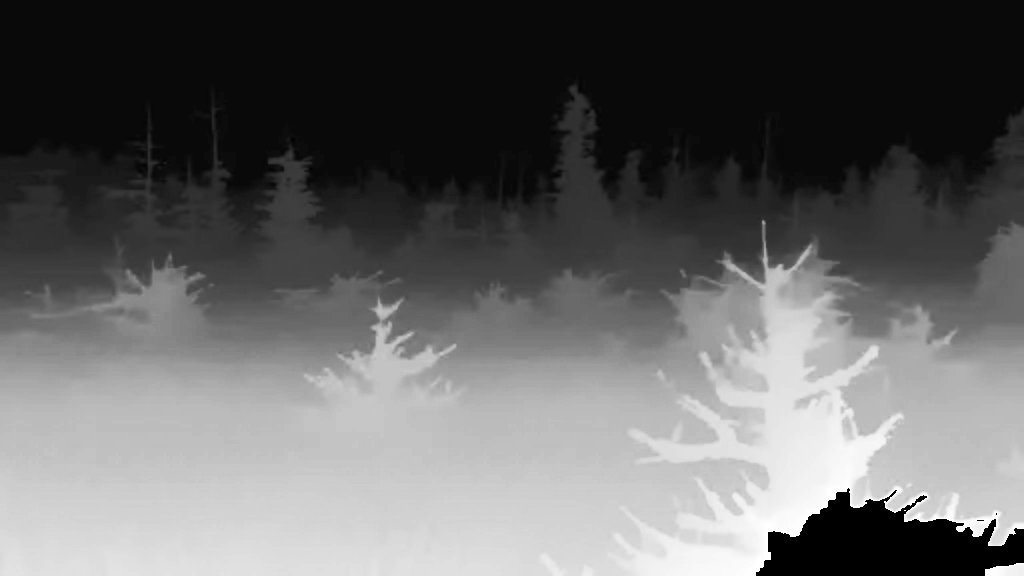
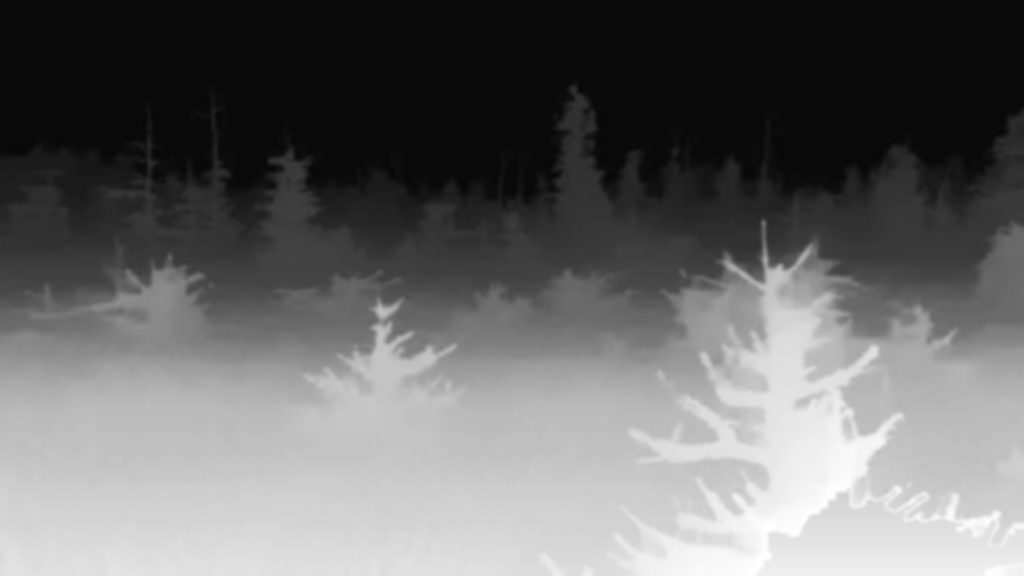
fix(hero): correction du bug de carte de profondeur en bas a droite et lissage de parallaxe

Changed region(s): [[0.7188, 0.8438, 1.0, 1.0]]

diff --git a/assets/js/hero-depth-3d.js b/assets/js/hero-depth-3d.js
@@ -100,44 +100,20 @@
         vec2 coverUv = getCoverUv(vUv, uResolution, uImageResolution);
         coverUv = clamp(coverUv, 0.001, 0.999);
 
-        // Calibrated stereoscopic parallax vector (solid physical camera shift)
-        vec2 parallax = -uMouse * vec2(0.045, 0.032);
+        // Sample depth map (1.0 = foreground trees & moss, 0.0 = distant sunrise sky)
+        float depth = texture2D(uDepth, coverUv).r;
 
-        // Parallax Occlusion Raymarching (8 depth slices for crisp solid geometry)
-        const int NUM_STEPS = 8;
-        vec2 stepOffset = parallax / float(NUM_STEPS);
-        vec2 currentUv = coverUv;
-        float currentDepthValue = texture2D(uDepth, currentUv).r;
-        float layerDepth = 0.0;
-        float stepSize = 1.0 / float(NUM_STEPS);
+        // Centered focal depth: 0.35 (horizon stays stable, foreground separates smoothly in 3D)
+        float depthFactor = depth - 0.35;
 
-        vec2 prevUv = currentUv;
-        float prevDepthValue = currentDepthValue;
-        float prevLayerDepth = 0.0;
+        // Smooth physical stereoscopic parallax (crisp solid geometry, zero staircasing or tearing)
+        vec2 parallax = -uMouse * vec2(0.042, 0.028) * depthFactor;
+        vec2 finalUv = clamp(coverUv + parallax, 0.001, 0.999);
 
-        for (int i = 0; i < NUM_STEPS; i++) {
-          if (layerDepth < currentDepthValue) {
-            prevUv = currentUv;
-            prevDepthValue = currentDepthValue;
-            prevLayerDepth = layerDepth;
-
-            currentUv += stepOffset;
-            currentDepthValue = texture2D(uDepth, clamp(currentUv, 0.001, 0.999)).r;
-            layerDepth += stepSize;
-          }
-        }
-
-        // Linear interpolation between last two ray steps for ultra-smooth edge transitions
-        float afterDepth = currentDepthValue - layerDepth;
-        float beforeDepth = prevDepthValue - prevLayerDepth;
-        float weight = clamp(beforeDepth / (beforeDepth - afterDepth + 0.0001), 0.0, 1.0);
-        vec2 finalUv = clamp(mix(prevUv, currentUv, weight), 0.001, 0.999);
-
-        // Crisp, sharp photo sample (no blurring, no smearing)
+        // Sample photo with full native sharpness
         vec4 color = texture2D(uPhoto, finalUv);
 
         // Enhance vivid morning sunlight and warm golden horizon
-        float depth = texture2D(uDepth, finalUv).r;
         color.rgb = pow(color.rgb, vec3(0.94));
         color.rgb += vec3(0.04, 0.025, 0.008) * (1.0 - depth);
 

diff --git a/index.html b/index.html
@@ -346,10 +346,10 @@
 }
 </script>
 
-<link rel="stylesheet" href="style.css?v=20260920-v5">
+<link rel="stylesheet" href="style.css?v=20260920-v6">
 <script src="assets/js/theme-core.js" defer></script>
-<script src="assets/vendor/curtains/curtains.umd.min.js?v=20260920-v5" defer></script>
-<script src="assets/js/hero-depth-3d.js?v=20260920-v5" defer></script>
+<script src="assets/vendor/curtains/curtains.umd.min.js?v=20260920-v6" defer></script>
+<script src="assets/js/hero-depth-3d.js?v=20260920-v6" defer></script>
 <script src="assets/js/page-home.js" defer></script>
 <script src="assets/js/chat-ai.js?v=20260917-2" defer></script>
 </head>

diff --git a/sw.js b/sw.js
@@ -1,4 +1,4 @@
-const CACHE_NAME = 'wg-pwa-v41';
+const CACHE_NAME = 'wg-pwa-v42';
 const MAX_CACHE_ENTRIES = 85;
 
 const ASSETS_TO_CACHE = [
